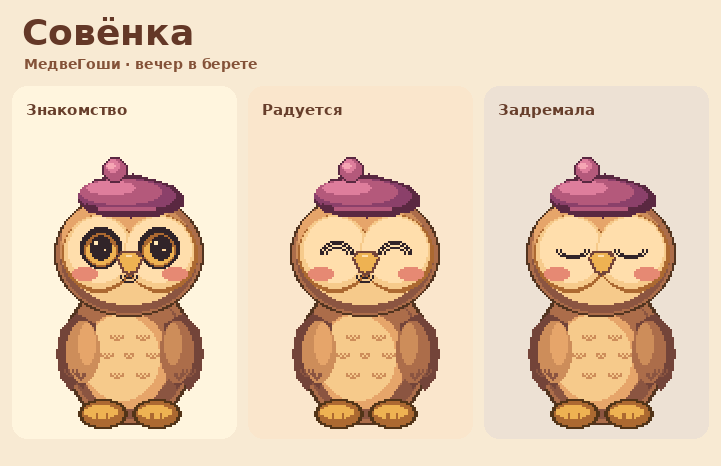
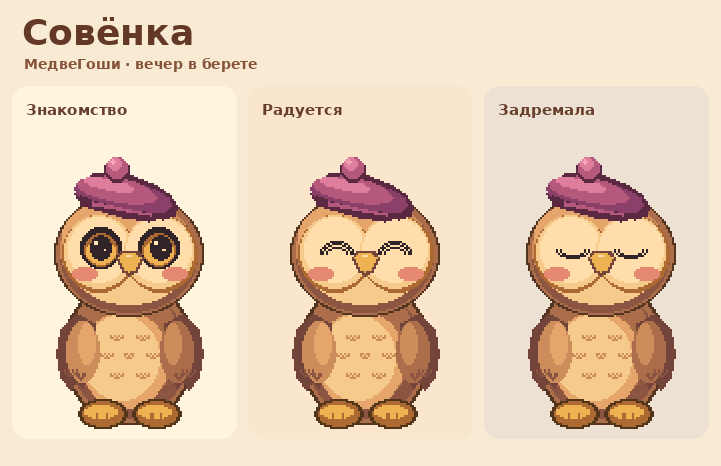
Tilt Sovenka's beret and leave only her beak

diff --git a/desenho.py b/desenho.py
@@ -615,30 +615,46 @@ def pato(cx, pe, olhos, boca, doente, s, ol):
     P(0,-70,(-6,-2,-4,-5,4,-5,6,-2,3,4,0,6,-3,4),rim)
     P(0,-70,(-4.55,-2,-2.7,-3.95,2.6,-3.95,4.6,-2,2,3.2,0,4.4,-2,3.2),gold)
     R(-1.75,-73.1,3,1.2,cream)
-    if boca in ('aberta','o'):
-        E(0,-62.6,3.4,2.65,ink)
-        E(0,-61.7,1.65,1.15,(227,117,111))
-    elif boca == 'triste':
-        A(0,-59.4,3.7,2.9,ink,1,2)
-    elif boca == 'sorriso':
-        A(0,-64,3.9,2.4,ink,2,2)
+    # The beak is her only mouth. The eyes carry the expressions.
+    # The little beret tips to one side around its brim, including the pom-pom.
+    HE, HP, _, _ = _rel(cx - 3.5*s, pe - 24*s, 0.74*s, ol, None)
 
-    # Small tilted beret. Scale around its brim, not around the feet.
-    HE, HP, HR, _ = _rel(cx - 0.7*s, pe - 24*s, 0.74*s, ol, None)
-    HP(0,-99,(-29,1,-27,-6,-20,-12,-11,-15,3,-16,16,-13,
-              26,-9,32,-3,32,3,26,7,10,8,-10,7,-23,7),plum_dark)
-    HE(-0.5,-101.5,29.0,10.0,plum)
-    HE(-4.7,-104.45,23.75,7.05,berry)
-    HE(-10.1,-106.7,15.0,3.3,berry_light)
-    HP(0,-95.2,(-25,-2,-15,0,3,1,25,-1,25,2,18,5,2,6,-15,5,-23,3),plum_dark)
-    HR(-17.5,-94.8,35.0,1.6,berry)
-    HE(-7.5,-117.0,7.85,7.4,plum_dark)
-    HE(-7.7,-117.9,6.45,6.15,berry)
-    HE(-9.3,-119.25,4.15,3.65,berry_light)
-    HE(-10.4,-120.15,1.75,1.65,pom_light)
+    def tilt(x, y):
+        y += 96
+        return 0.982*x - 0.187*y, 0.187*x + 0.982*y - 96
+
+    def hat_poly(x, y, coords, color):
+        points = []
+        for i in range(0, len(coords), 2):
+            points.extend(tilt(x + coords[i], y + coords[i+1]))
+        HP(0, 0, points, color)
+
+    def hat_oval(x, y, rx, ry, color):
+        unit = ((1,0),(.924,.383),(.707,.707),(.383,.924),(0,1),
+                (-.383,.924),(-.707,.707),(-.924,.383),(-1,0),
+                (-.924,-.383),(-.707,-.707),(-.383,-.924),(0,-1),
+                (.383,-.924),(.707,-.707),(.924,-.383))
+        points = []
+        for a, b in unit:
+            points.extend(tilt(x + a*rx, y + b*ry))
+        HP(0, 0, points, color)
+
+    hat_poly(0,-99,(-29,1,-27,-6,-20,-12,-11,-15,3,-16,16,-13,
+                     26,-9,32,-3,32,3,26,7,10,8,-10,7,-23,7),plum_dark)
+    hat_oval(-0.5,-101.5,29.0,10.0,plum)
+    hat_oval(-4.7,-104.45,23.75,7.05,berry)
+    hat_oval(-10.1,-106.7,15.0,3.3,berry_light)
+    hat_poly(0,-95.2,(-25,-2,-15,0,3,1,25,-1,25,2,18,5,2,6,-15,5,-23,3),plum_dark)
+    hat_poly(-17.5,-94.8,(0,0,35,0,35,1.6,0,1.6),berry)
+    for x,y,rx,ry,col in ((-7.5,-117.0,7.85,7.4,plum_dark),
+                         (-7.7,-117.9,6.45,6.15,berry),
+                         (-9.3,-119.25,4.15,3.65,berry_light),
+                         (-10.4,-120.15,1.75,1.65,pom_light)):
+        tx,ty = tilt(x,y)
+        HE(tx,ty,rx,ry,col)
     if doente:
         termometro(cx+32*s, pe-56*s)
-    return pe-74*s, pe-117*s, 35*s, [(cx+ox*s, pe+oy*s) for ox,oy in eyes]
+    return pe-74*s, pe-119*s, 35*s, [(cx+ox*s, pe+oy*s) for ox,oy in eyes]
 
 
 def elefante(cx, pe, olhos, boca, doente, s, ol):

diff --git a/docs/SCREENSHOTS_RU.md b/docs/SCREENSHOTS_RU.md
@@ -23,7 +23,7 @@
 
 ## Совёнка крупным планом
 
-Совёнка сменила Утку на третьем месте в меню. У неё маленький клюв, круглые совиные глаза и сливовый берет с помпоном. Прогресс из прежнего слота сохраняется.
+Совёнка сменила Утку на третьем месте в меню. У неё маленький клюв, круглые совиные глаза и маленький сливовый берет с помпоном набок. Прогресс из прежнего слота сохраняется.
 
 [![Совёнка знакомится, радуется и дремлет](img/medvegoshi-ru/sovenka-preview.png)](img/medvegoshi-ru/sovenka-preview.png)
 
